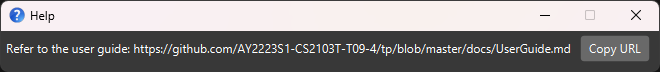
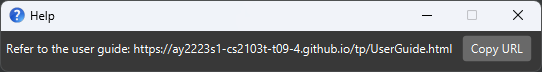
Replace user guide markdown url with tp url

diff --git a/src/main/java/seedu/address/ui/HelpWindow.java b/src/main/java/seedu/address/ui/HelpWindow.java
@@ -16,7 +16,7 @@ import seedu.address.commons.core.LogsCenter;
 public class HelpWindow extends UiPart<Stage> {
 
     public static final String USERGUIDE_URL =
-            "https://github.com/AY2223S1-CS2103T-T09-4/tp/blob/master/docs/UserGuide.md";
+            "https://ay2223s1-cs2103t-t09-4.github.io/tp/UserGuide.html";
     public static final String HELP_MESSAGE = "Refer to the user guide: " + USERGUIDE_URL;
 
     private static final Logger logger = LogsCenter.getLogger(HelpWindow.class);

diff --git a/docs/UserGuide.md b/docs/UserGuide.md
@@ -7,7 +7,7 @@ Teacher’s Pet can get your contact and class management tasks done faster than
 ## Quick start
 
 1. Ensure you have Java `11` or above installed in your Computer.
-2. Download the latest `teacherpet.jar` from …
+2. Download the latest `teacherpet.jar` from https://github.com/AY2223S1-CS2103T-T09-4/tp/releases when made available.
 3. Copy the file to the folder you want to use as the *home folder* for your application.
 4. Double-click the file to start the app. The GUI similar to the below should appear in a few seconds.
    Note how the app contains some sample data.
@@ -29,6 +29,7 @@ Our application is divided into 5 areas to maximise productivity, the specific u
 the money collected/owed
 - Day’s Schedule List - A scroll window which shows the schedule for the day, sorted by time
 
+Basic Instructions:
 1. Type the command in the command box and press Enter to execute it. e.g. typing `help` and pressing Enter will open
    the help window. Some example commands you can try:
     - `list`: Lists all contacts.
